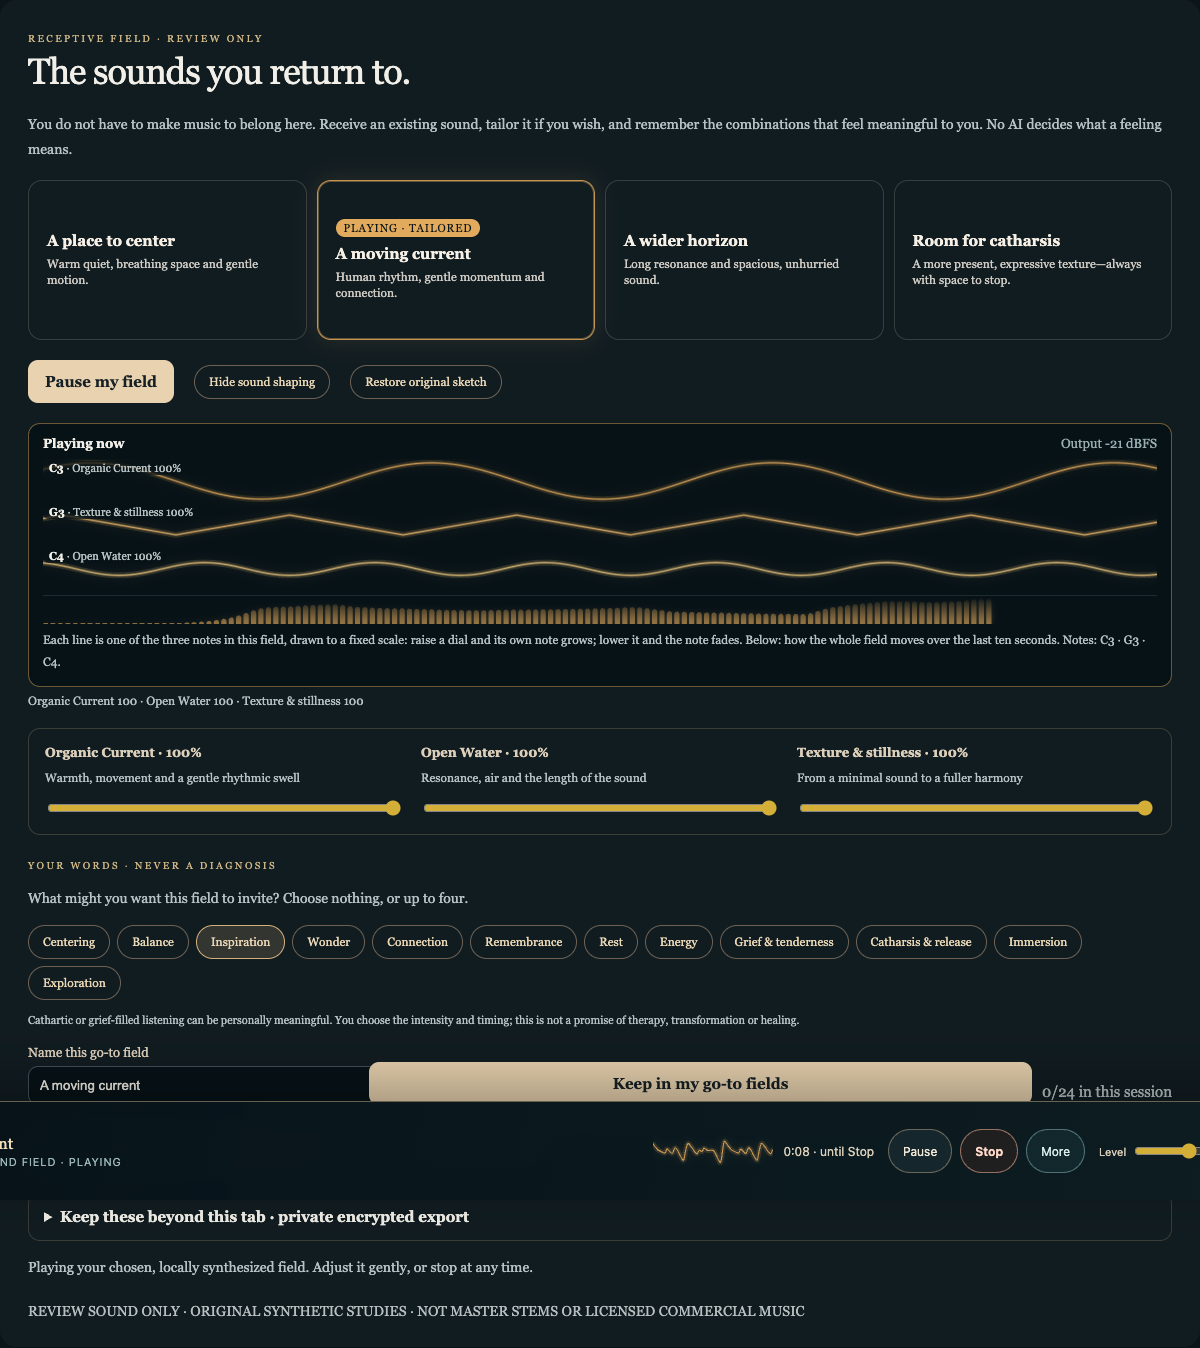
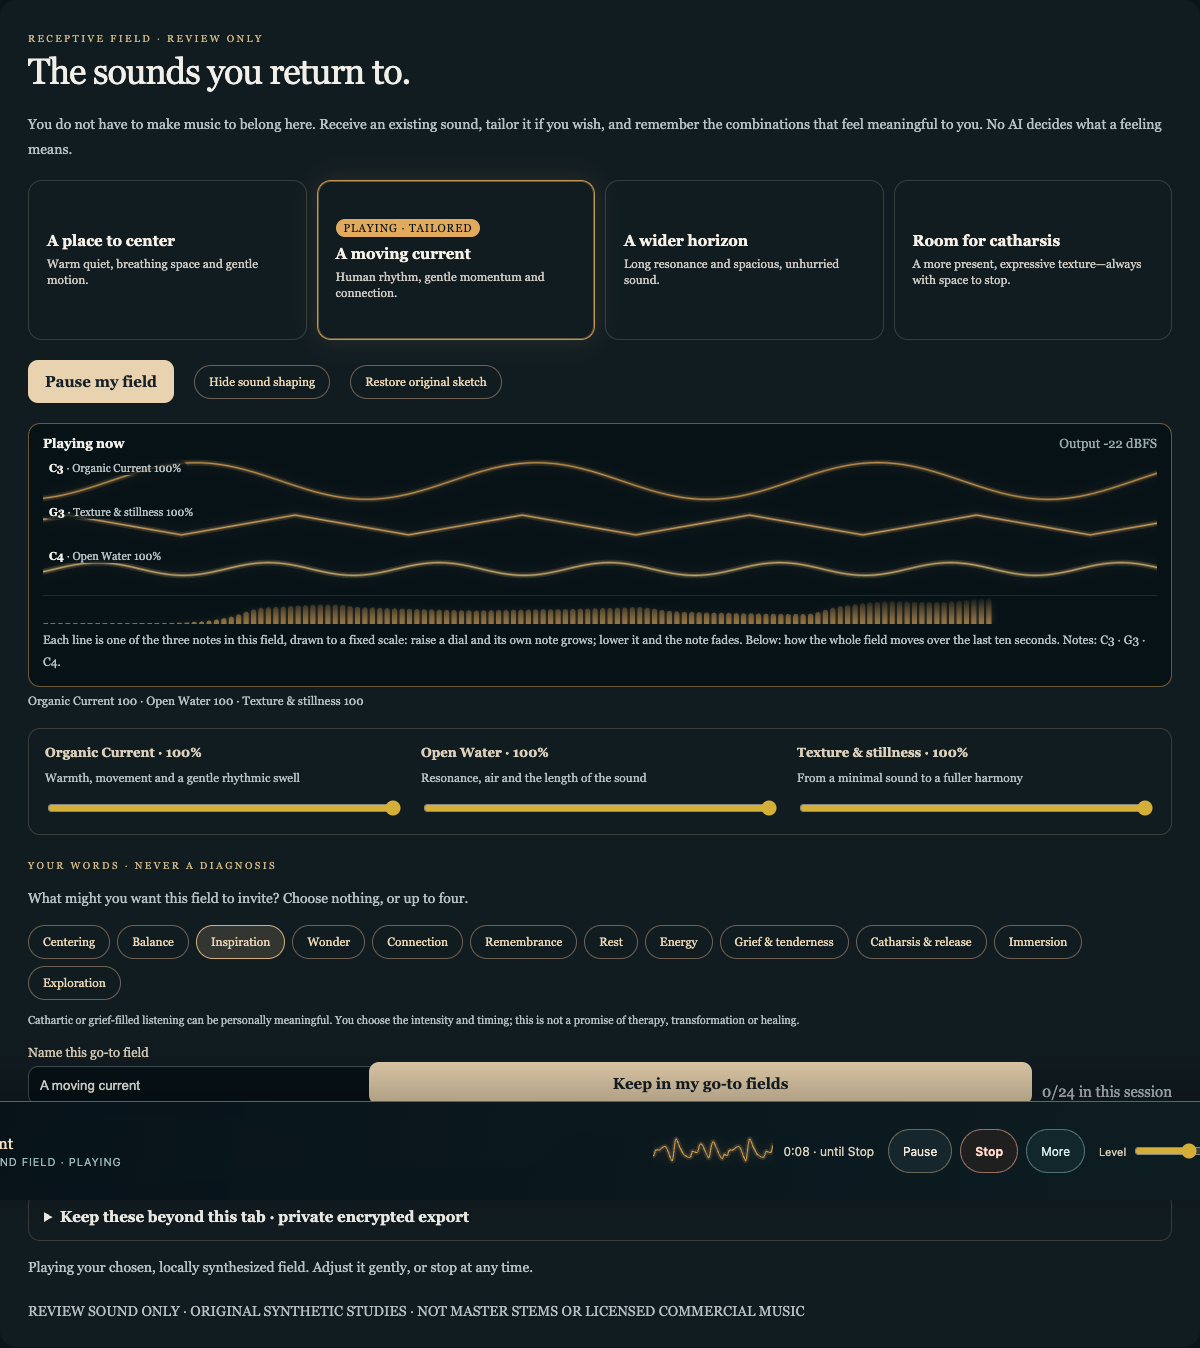
feat(listen): generated sketches reach the system's Now Playing and media keys (#1979)
Founder witness 2026-11-20: in real Safari, Velvet Current played while macOS
Now Playing showed another app. Founder go-ahead: "Yes, do it".

A browser reports a page to Now Playing, Control Center and the play/pause key
only while a media element plays, and sketches were Web Audio only. Every
generated sound now goes through the one player's existing keep-alive element
(MediaStreamAudioDestinationNode to the element's srcObject), the route the
Focus soundscape already used. newSketch gains the same output bus and stream,
the keep-alive element starts in the member's tap for every generated sound,
and the route applies whenever a stream exists. If the element will not play,
the sound stays on the direct output. No new player or engine, and the sound
is unchanged.

Tests:
- New now_playing_sketch_browser_witness: 9/9 in local Chrome and Playwright
  WebKit 26.0. The element is playing and carries the sketch, with no doubled
  direct path; Media Session title and state are reported; the system
  Pause/Play handlers pause and resume through the element; Stop clears it.
  The previous commit fails 5/9.
- The shelf_dial_pops recorder now follows the reroute (it had heard silence);
  8/8 again in Chrome and WebKit.
- shelf_live_view 52/52, player_bar 34/34, focus_sound_level 20/20,
  focus_designs 57/57, listen79_level_bar 36/36.
- The suite has 183 pass and the same 6 pre-existing failures; no tsc errors
  in the provider.
[…]

Changed region(s): [[0.0308, 0.3116, 0.9558, 0.4362], [0.555, 0.8412, 0.6475, 0.8724], [0.0308, 0.3427, 0.0925, 0.3739]]

diff --git a/components/listening/PersistentListeningProvider.tsx b/components/listening/PersistentListeningProvider.tsx
@@ -323,7 +323,13 @@ function newSketch(
   const filter = context.createBiquadFilter();
   filter.type = 'lowpass';
   filter.frequency.value = 660;
-  filter.connect(master); master.connect(context.destination);
+  // The same output bus and stream tap a soundscape has, so the keep-alive element can carry a sketch too. A
+  // browser reports a page to the system's Now Playing and media keys only while a media ELEMENT plays
+  // (founder witness 2026-11-20, #1979: Velvet Current was absent from macOS Now Playing).
+  const out = context.createGain();
+  out.connect(context.destination);
+  const stream = typeof context.createMediaStreamDestination === 'function' ? context.createMediaStreamDestination() : undefined;
+  filter.connect(master); master.connect(out);
   const voices:GainNode[]=[];
   const oscillators = frequencies.map((frequency, index) => {
     const osc = context.createOscillator();
@@ -347,7 +353,7 @@ function newSketch(
   movement.start();
   const overtones=newSketchOvertones(context,master,frequencies,oscillators);
   movementDepth.connect(overtones.voices[0].gain); // the lowest note's overtones swell with it
-  const sketch:Sketch={context,oscillators,master,voices,filter,movement,movementDepth,mood,frequencies,overtones};
+  const sketch:Sketch={context,oscillators,master,voices,filter,movement,movementDepth,mood,frequencies,overtones,out,stream};
   applyReceptiveShape(sketch,shape);
   return sketch;
 }
@@ -905,9 +911,10 @@ export function PersistentListeningProvider({
     if (outputLease.current) pause();
     // Started here, before any await: iOS only lets a media element begin inside the member's tap, and the output
     // lease and context resume below both await. Every refusal path below releases it.
-    if (soundscape) {
+    {
       // One element for the life of the room: once a tap has let it play, iOS lets it play again later, which a
-      // lock-screen Play needs. It starts on silence, then carries the soundscape once the sketch is running.
+      // lock-screen Play needs. It starts on silence, then carries the generated sound once it is running: a
+      // soundscape, and since 2026-11-20 every sketch too, so the system's Now Playing and media keys see it.
       const el = keepAlive.current ?? silentKeepAlive();
       if (el) {
         keepAlive.current = el;
@@ -956,7 +963,7 @@ export function PersistentListeningProvider({
         if (isMaiaSpeechActive()) refuseDuringMaiaSpeech();
         return false;
       }
-      if (soundscape && active.out && active.stream && keepAlive.current) {
+      if (active.out && active.stream && keepAlive.current) {
         const el = keepAlive.current;
         try {
           el.srcObject = active.stream.stream;

diff --git a/docs/design/contracts/sound-studio-field.md b/docs/design/contracts/sound-studio-field.md
@@ -220,6 +220,8 @@ A long-form Dream Field may be represented by more than one exact media object w
   - Generated sound is read through the existing read-only output tap.
   - A recording is read through a copy of the element's stream (`captureStream`), analysed in a context connected to nothing. Playback keeps its own path, and nothing is rerouted or heard twice.
   - Where a browser has no `captureStream` for audio (Safari), the bar says "No live view for recordings in this browser" rather than reroute playback.
+- **Safari witness (founder, 2026-11-20).** In real Safari on the founder's Mac, the bar showed Velvet Current's live waveform, the play length (up to "2:35 · until Stop") and Level.
+- **The system's Now Playing and media keys (founder go-ahead 2026-11-20: "Yes, do it").** A browser reports a page to macOS Now Playing, Control Center and the play/pause key only while a media element plays. Generated sketches were Web Audio only, so the founder saw another app in Now Playing while Velvet Current played. Every generated sound now goes through the one player's existing keep-alive element, the route the Focus soundscape already used. No new player or engine is added, and the sound is unchanged. The title, playing or paused state, and Play/Pause reach the system. Stop pauses the element and clears Now Playing. If the element will not play, the sound stays on the direct output instead of going silent. `tests/listening/now_playing_sketch_browser_witness.cjs` passes 9/9 in local Chrome and Playwright WebKit 26.0, and the previous code fails 5 of its 9 checks. A test cannot see macOS Now Playing itself; the founder's Mac is the witness for that. The stand-alone desktop player remains the desktop lane's (#1892, #1984).
 - **A silent focus session** shows "Choose a sound", linking to Sound for this session.
 - **Verification.** 2026-11-19, `tests/listening/player_bar_browser_witness.cjs`: the real player and dock with the real Focus page parts, in local Chrome at 1440 and 390 px.
   - Level is present and sets the player's level with only a silent timer; Choose a sound is offered.
